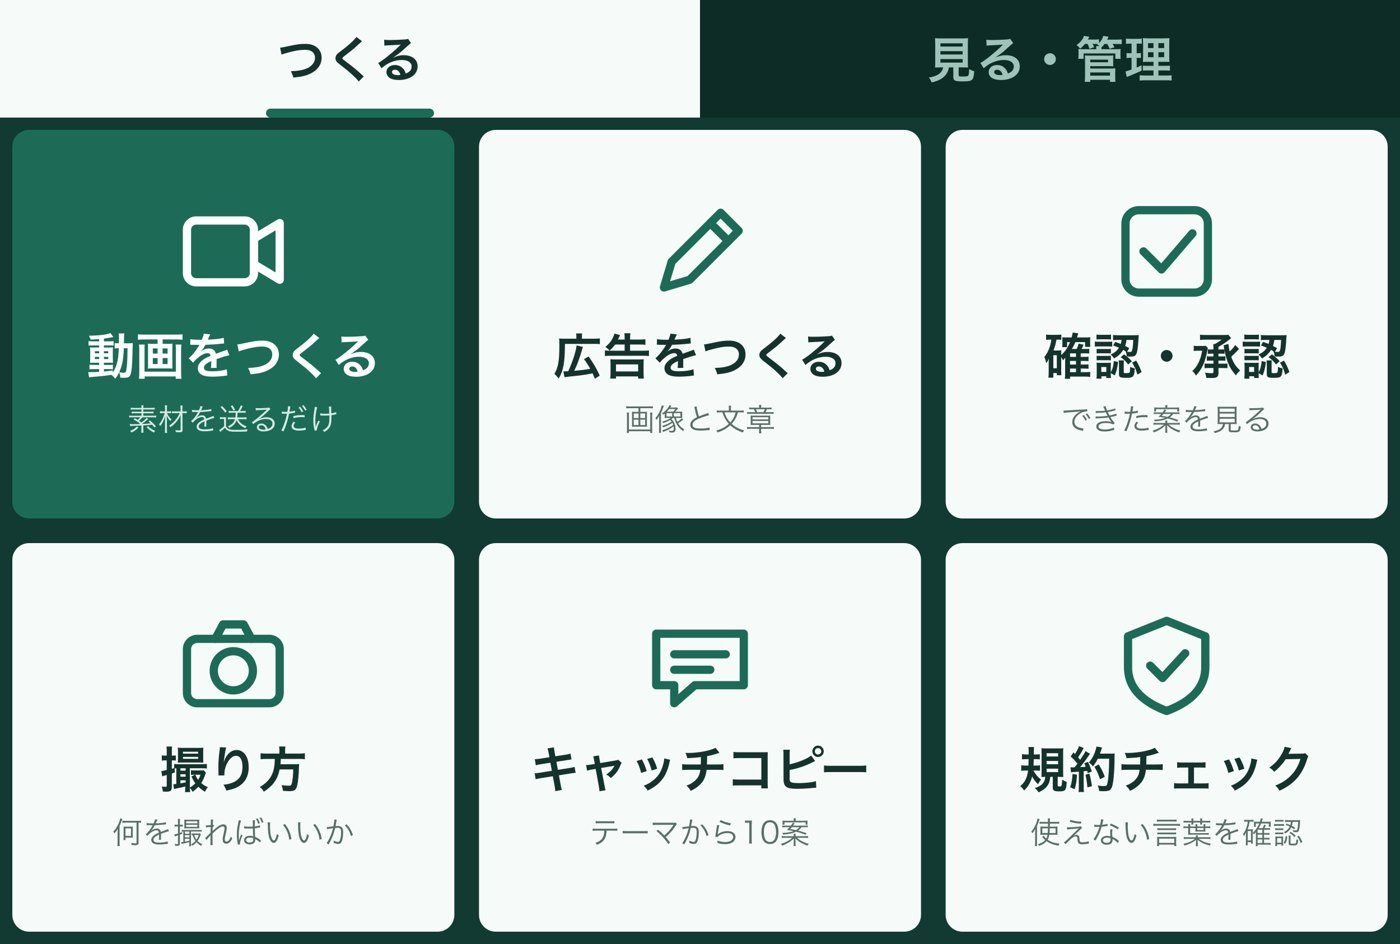
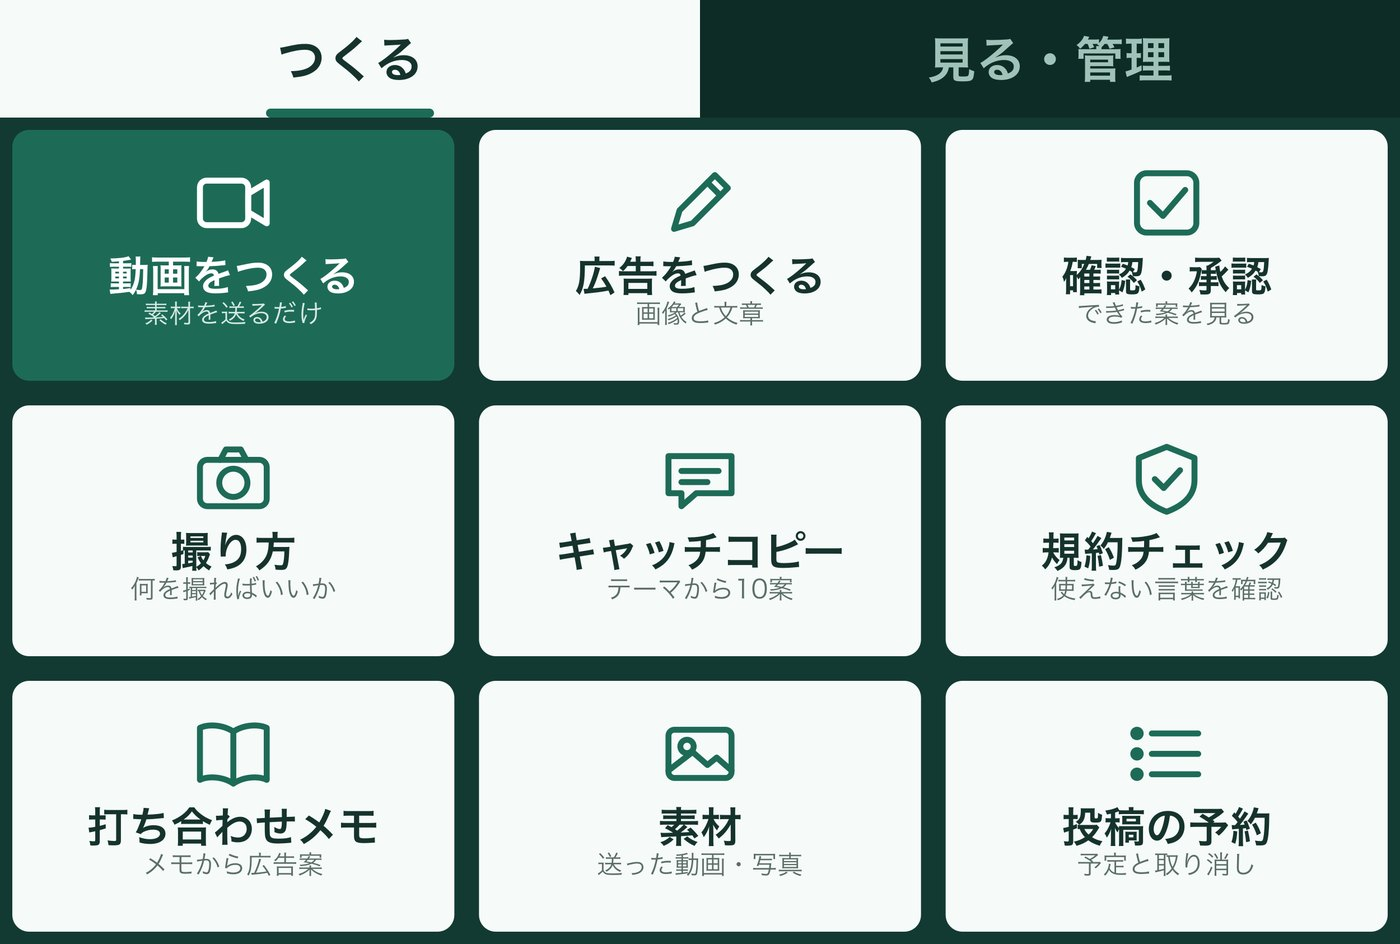
マカセルの使い方: 動画で見る（全9章・YouTube限定公開）を追加／準備スライドのLINEメニュー画像を今の9つボタンに
・使い方ページに「動画で見る」の欄（押したときだけ動画を読み込む・スマホ幅のはみ出しなし）
・ご利用ガイドに動画への案内を1行
・広告をはじめる準備：line_main.jpg が古い6つボタンのままだったので、本番のv6の絵に差し替え

Changed region(s): [[0.0, 0.1536, 1.0, 0.9216]]

diff --git a/makaseru/tsukaikata/index.html b/makaseru/tsukaikata/index.html
@@ -57,6 +57,16 @@ details p{margin:8px 0 0}
 .flow li::before{content:counter(f);position:absolute;left:12px;top:10px;width:26px;height:26px;border-radius:50%;background:var(--pine);color:var(--paper);font-weight:700;display:flex;align-items:center;justify-content:center;font-size:14px}
 .flow b{display:block}
 footer{color:var(--mut);font-size:13px;text-align:center;margin-top:28px}
+.vgrid{display:grid;grid-template-columns:repeat(auto-fill,minmax(250px,1fr));gap:16px;margin:14px 0}
+.vcard{min-width:0}
+.vplay{position:relative;display:block;width:100%;aspect-ratio:16/9;padding:0;border:1px solid var(--line);border-radius:10px;overflow:hidden;background:#111;cursor:pointer}
+.vplay img{width:100%;height:100%;object-fit:cover;display:block;border:0;border-radius:0}
+.vbtn{position:absolute;left:50%;top:50%;width:58px;height:40px;margin:-20px 0 0 -29px;border-radius:10px;background:rgba(20,20,20,.78)}
+.vbtn::after{content:"";position:absolute;left:23px;top:11px;border-style:solid;border-width:9px 0 9px 15px;border-color:transparent transparent transparent #fff}
+.vplay:focus-visible{outline:3px solid var(--pine);outline-offset:2px}
+.vcard iframe{display:block;width:100%;aspect-ratio:16/9;border:0;border-radius:10px}
+.vt{margin:8px 0 0;font-size:15px;line-height:1.6}.vm{color:var(--mut);font-size:13px}
+.vl{margin:2px 0 0;font-size:13px}.vl a{color:var(--pine)}
 figure{margin:12px 0}figure img{width:auto;max-width:100%;height:auto;border:1px solid var(--line);border-radius:10px;display:block}figcaption{font-size:13px;color:var(--mut);margin-top:4px}
 .docnav{max-width:820px;margin:32px auto 0;padding:16px 18px;border-top:1px solid var(--dn-line,#d9e2df);font-family:"Noto Sans JP",system-ui,sans-serif}
 .docnav-h{margin:0 0 8px;font-size:13px;font-weight:700;letter-spacing:.06em;color:var(--dn-mut,#4f5b56)}
@@ -87,6 +97,7 @@ figure{margin:12px 0}figure img{width:auto;max-width:100%;height:auto;border:1px
   <p class="lead">お申し込みと権限の渡し方は<a href="../" style="color:var(--pine)">ご利用ガイド</a>をご覧ください。</p>
 </header>
 
+<p class="lead" style="margin:0 0 10px"><a href="#douga" style="color:var(--pine);font-weight:700">動画で見る（全9章）</a>　文章より動画のほうが早い方は、こちらからどうぞ。</p>
 <nav class="toc"><b>目次</b><ol>
   <li><a href="#share">しっとるが進めること・ご自身で進めること</a></li>
   <li><a href="#month">毎月の流れ（しっとるが進める分）</a></li>
@@ -104,6 +115,31 @@ figure{margin:12px 0}figure img{width:auto;max-width:100%;height:auto;border:1px
   <li><a href="#faq">よくある質問</a></li>
 </ol></nav>
 <main class="body">
+
+<section id="douga">
+  <h2>動画で見る（全9章・約42分）</h2>
+  <p>実際の画面を操作しながら、はじめから順にご説明しています。見たい章だけでも大丈夫です。画面は見本のデータです（架空のお店・金額は伏せています）。</p>
+  <div class="vgrid">
+    <div class="vcard"><button class="vplay" type="button" data-v="eSW7mhFX5SE" aria-label="第1章 登録とログイン、画面の見方 の動画を再生"><img src="https://i.ytimg.com/vi/eSW7mhFX5SE/hqdefault.jpg" alt="" width="480" height="360" loading="lazy"><span class="vbtn" aria-hidden="true"></span></button>
+      <p class="vt"><b>第1章</b>　登録とログイン、画面の見方<span class="vm">（約5分）</span></p><p class="vl"><a href="https://youtu.be/eSW7mhFX5SE" target="_blank" rel="noopener">YouTubeで開く</a></p></div>
+    <div class="vcard"><button class="vplay" type="button" data-v="oEepBUSL9rE" aria-label="第2章 お店を登録する の動画を再生"><img src="https://i.ytimg.com/vi/oEepBUSL9rE/hqdefault.jpg" alt="" width="480" height="360" loading="lazy"><span class="vbtn" aria-hidden="true"></span></button>
+      <p class="vt"><b>第2章</b>　お店を登録する<span class="vm">（約5分）</span></p><p class="vl"><a href="https://youtu.be/oEepBUSL9rE" target="_blank" rel="noopener">YouTubeで開く</a></p></div>
+    <div class="vcard"><button class="vplay" type="button" data-v="apX4PFKhtPo" aria-label="第3章 Meta広告の準備 の動画を再生"><img src="https://i.ytimg.com/vi/apX4PFKhtPo/hqdefault.jpg" alt="" width="480" height="360" loading="lazy"><span class="vbtn" aria-hidden="true"></span></button>
+      <p class="vt"><b>第3章</b>　Meta広告の準備<span class="vm">（約5分）</span></p><p class="vl"><a href="https://youtu.be/apX4PFKhtPo" target="_blank" rel="noopener">YouTubeで開く</a></p></div>
+    <div class="vcard"><button class="vplay" type="button" data-v="EiS6W4dJKZs" aria-label="第4章 マカセルとMetaをつなぐ の動画を再生"><img src="https://i.ytimg.com/vi/EiS6W4dJKZs/hqdefault.jpg" alt="" width="480" height="360" loading="lazy"><span class="vbtn" aria-hidden="true"></span></button>
+      <p class="vt"><b>第4章</b>　マカセルとMetaをつなぐ<span class="vm">（約4分）</span></p><p class="vl"><a href="https://youtu.be/EiS6W4dJKZs" target="_blank" rel="noopener">YouTubeで開く</a></p></div>
+    <div class="vcard"><button class="vplay" type="button" data-v="y3iTWvad--w" aria-label="第5章 LINEで広告をつくる の動画を再生"><img src="https://i.ytimg.com/vi/y3iTWvad--w/hqdefault.jpg" alt="" width="480" height="360" loading="lazy"><span class="vbtn" aria-hidden="true"></span></button>
+      <p class="vt"><b>第5章</b>　LINEで広告をつくる<span class="vm">（約4分）</span></p><p class="vl"><a href="https://youtu.be/y3iTWvad--w" target="_blank" rel="noopener">YouTubeで開く</a></p></div>
+    <div class="vcard"><button class="vplay" type="button" data-v="iko2wDoEmfo" aria-label="第6章 承認して素材を受け取る の動画を再生"><img src="https://i.ytimg.com/vi/iko2wDoEmfo/hqdefault.jpg" alt="" width="480" height="360" loading="lazy"><span class="vbtn" aria-hidden="true"></span></button>
+      <p class="vt"><b>第6章</b>　承認して素材を受け取る<span class="vm">（約4分）</span></p><p class="vl"><a href="https://youtu.be/iko2wDoEmfo" target="_blank" rel="noopener">YouTubeで開く</a></p></div>
+    <div class="vcard"><button class="vplay" type="button" data-v="wdULXm-YvS4" aria-label="第7章 広告マネージャで公開する の動画を再生"><img src="https://i.ytimg.com/vi/wdULXm-YvS4/hqdefault.jpg" alt="" width="480" height="360" loading="lazy"><span class="vbtn" aria-hidden="true"></span></button>
+      <p class="vt"><b>第7章</b>　広告マネージャで公開する<span class="vm">（約5分）</span></p><p class="vl"><a href="https://youtu.be/wdULXm-YvS4" target="_blank" rel="noopener">YouTubeで開く</a></p></div>
+    <div class="vcard"><button class="vplay" type="button" data-v="r_1L3tD0x28" aria-label="第8章 ショート動画をつくる の動画を再生"><img src="https://i.ytimg.com/vi/r_1L3tD0x28/hqdefault.jpg" alt="" width="480" height="360" loading="lazy"><span class="vbtn" aria-hidden="true"></span></button>
+      <p class="vt"><b>第8章</b>　ショート動画をつくる<span class="vm">（約5分）</span></p><p class="vl"><a href="https://youtu.be/r_1L3tD0x28" target="_blank" rel="noopener">YouTubeで開く</a></p></div>
+    <div class="vcard"><button class="vplay" type="button" data-v="bPBLykH09M8" aria-label="第9章 毎朝の判定と困ったとき の動画を再生"><img src="https://i.ytimg.com/vi/bPBLykH09M8/hqdefault.jpg" alt="" width="480" height="360" loading="lazy"><span class="vbtn" aria-hidden="true"></span></button>
+      <p class="vt"><b>第9章</b>　毎朝の判定と困ったとき<span class="vm">（約4分）</span></p><p class="vl"><a href="https://youtu.be/bPBLykH09M8" target="_blank" rel="noopener">YouTubeで開く</a></p></div>
+  </div>
+</section>
 
 <section id="share">
   <h2><span class="n">1</span>しっとるが進めること・ご自身で進めること</h2>
@@ -482,5 +518,13 @@ figure{margin:12px 0}figure img{width:auto;max-width:100%;height:auto;border:1px
 
 <footer>株式会社しっとる　マカセル　<a href="../" style="color:inherit">ご利用ガイド</a>　利用規約：<a href="https://app.s-toru.com/terms" style="color:inherit">app.s-toru.com/terms</a></footer>
 </div>
+
+<script>
+document.querySelectorAll('.vplay').forEach(function(b){b.addEventListener('click',function(){
+  var f=document.createElement('iframe');
+  f.src='https://www.youtube-nocookie.com/embed/'+b.getAttribute('data-v')+'?autoplay=1&rel=0';
+  f.title=b.getAttribute('aria-label');f.allow='accelerometer; autoplay; clipboard-write; encrypted-media; gyroscope; picture-in-picture';f.allowFullscreen=true;
+  b.replaceWith(f);});});
+</script>
 </body>
 </html>

diff --git a/makaseru/index.html b/makaseru/index.html
@@ -75,7 +75,7 @@ footer{color:var(--mut);font-size:13px;text-align:center;margin-top:28px}
   <div class="kicker">株式会社しっとる　Meta広告（Instagram・Facebook）</div>
   <h1>マカセル ご利用ガイド</h1>
   <p class="lead">お申し込みから、しっとるへ権限をお渡しいただくまでの手順と、広告が動き始めてからの公式LINEでの使い方、よくある質問をまとめました。</p>
-  <p class="lead">始まってからの毎月の使い方は、<a href="tsukaikata/" style="color:var(--pine)">マカセルの使い方</a>にくわしくまとめています。</p>
+  <p class="lead">始まってからの毎月の使い方は、<a href="tsukaikata/" style="color:var(--pine)">マカセルの使い方</a>にくわしくまとめています。実際の画面を操作しながらご説明する<a href="tsukaikata/#douga" style="color:var(--pine)">動画（全9章）</a>もあります。</p>
 </header>
 
 <nav class="toc" aria-label="目次">
